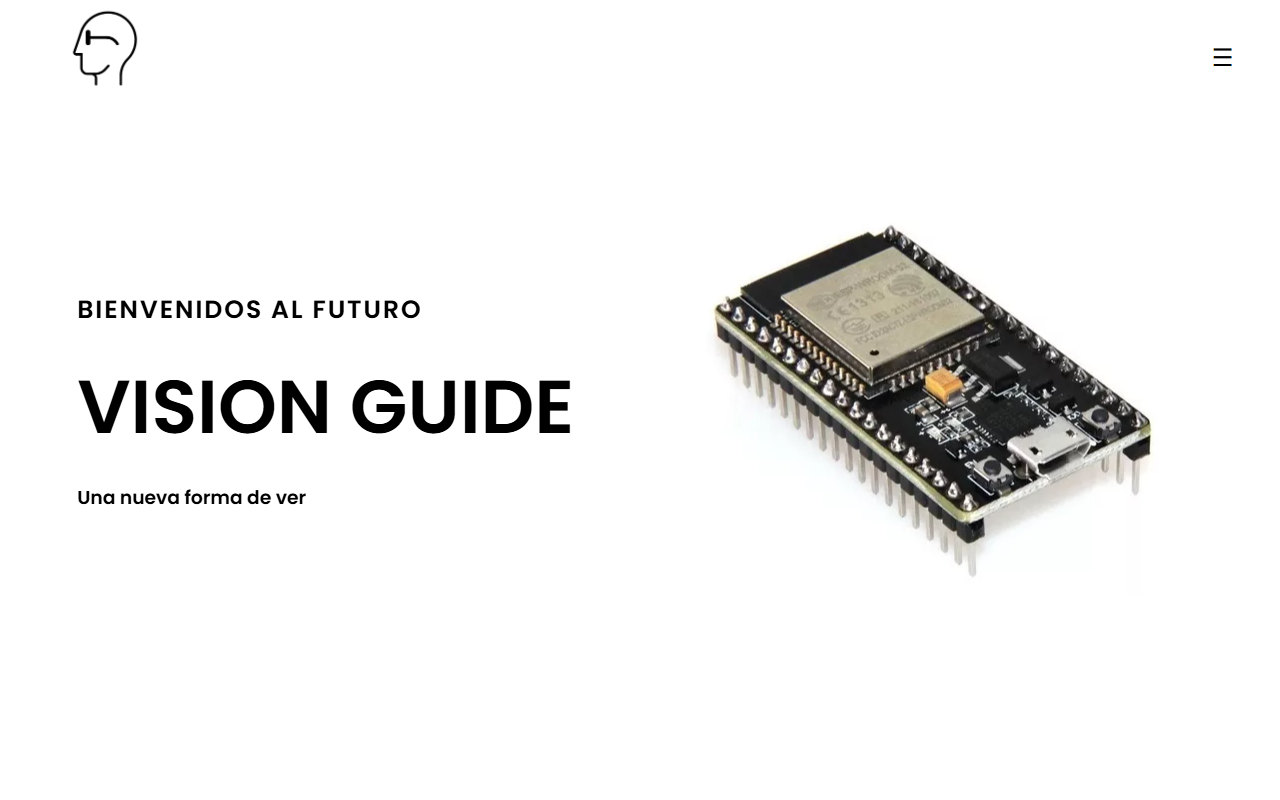
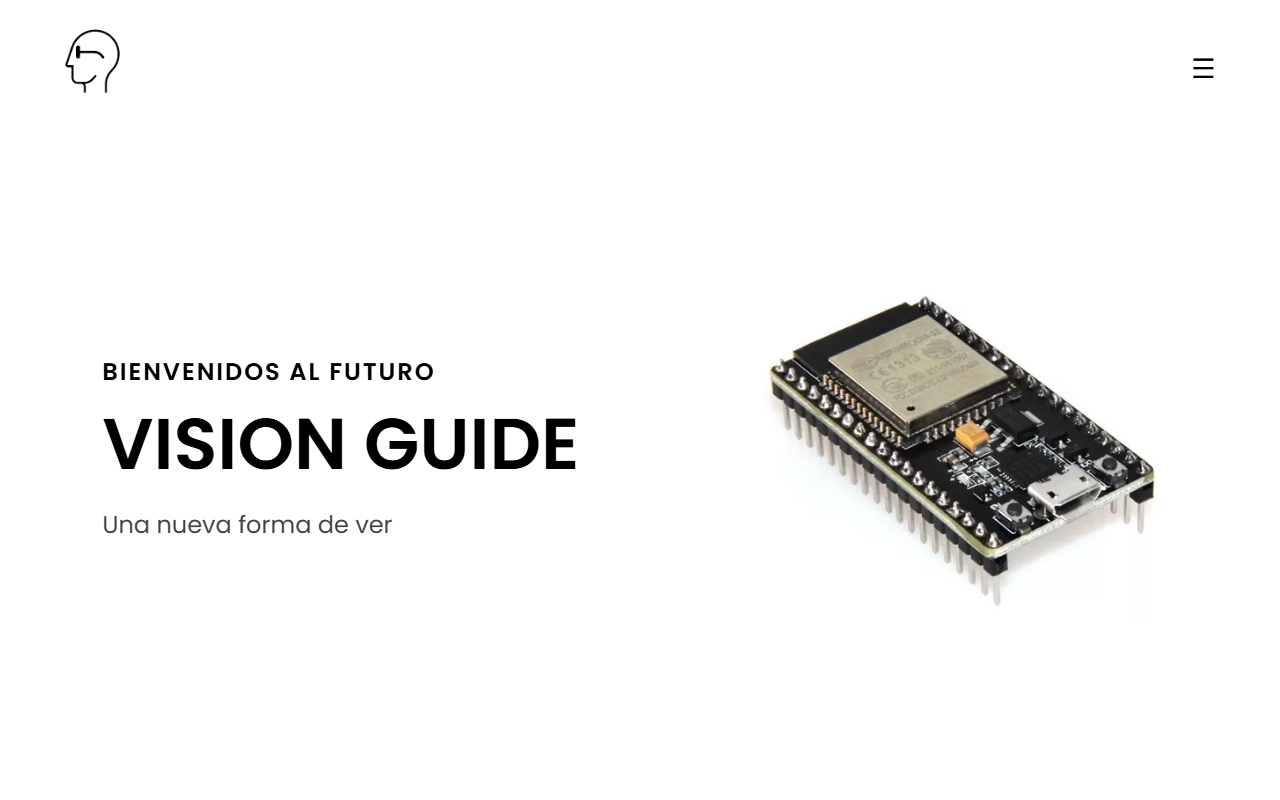
fix(visionguide): actualizar URL a visionguide2023.netlify.app y cambiar Web App por App Móvil

diff --git a/src/data/projects.ts b/src/data/projects.ts
@@ -14,10 +14,10 @@ export const realProjects: RealProject[] = [
   {
     id: "visionguide",
     title: "VisionGuide",
-    subtitle: "Dispositivo de Asistencia Visual & Web App",
-    description: "Sistema wearable creado para asistir a personas con discapacidad visual. Mediante sensores ultrasónicos y una aplicación web en tiempo real, detecta obstáculos e informa qué objeto se encuentra, a qué distancia y en qué dirección. Presentado con éxito en la Expo-Bienal 2023.",
-    tags: ["Arduino", "C++", "Sensores Ultrasónicos", "Web App", "Impresión 3D", "Accesibilidad"],
-    liveUrl: "https://whimsical-gnome-48e4b6.netlify.app/",
+    subtitle: "Dispositivo de Asistencia Visual & App Móvil",
+    description: "Sistema wearable creado para asistir a personas con discapacidad visual. Mediante sensores ultrasónicos y una aplicación móvil en tiempo real, detecta obstáculos e informa qué objeto se encuentra, a qué distancia y en qué dirección. Presentado con éxito en la Expo-Bienal 2023.",
+    tags: ["Arduino", "C++", "Sensores Ultrasónicos", "App Móvil", "Impresión 3D", "Accesibilidad"],
+    liveUrl: "https://visionguide2023.netlify.app/",
     image: "/images/visionguide-web.png",
     highlight: "Presentado en Expo-Bienal 2023"
   },

diff --git a/README.md b/README.md
@@ -4,7 +4,7 @@ Portfolio personal y sitio web donde comparto mis proyectos, desarrollos y forma
 
 ## Proyectos incluidos
 
-- **VisionGuide**: Dispositivo asistencial con sensores ultrasónicos y aplicación web para personas con discapacidad visual (Expo-Bienal 2023). [Ver sitio web](https://whimsical-gnome-48e4b6.netlify.app/)
+- **VisionGuide**: Dispositivo asistencial con sensores ultrasónicos y aplicación móvil para personas con discapacidad visual (Expo-Bienal 2023). [Ver sitio web](https://visionguide2023.netlify.app/)
 - **Brumapage**: Catálogo web comercial de productos. [Ver sitio web](https://bruuma.netlify.app/)
 - **Tienda Nube & E-Commerce**: Canal digital de ventas e integración de catálogo. [Ver sitio web](https://agusfussi.github.io/tienda-nube/)
 - **Gestión de Vacaciones & Sueldos**: Aplicación de escritorio interna para GMP Equipamientos (Tauri, React, TypeScript y SQLite).
